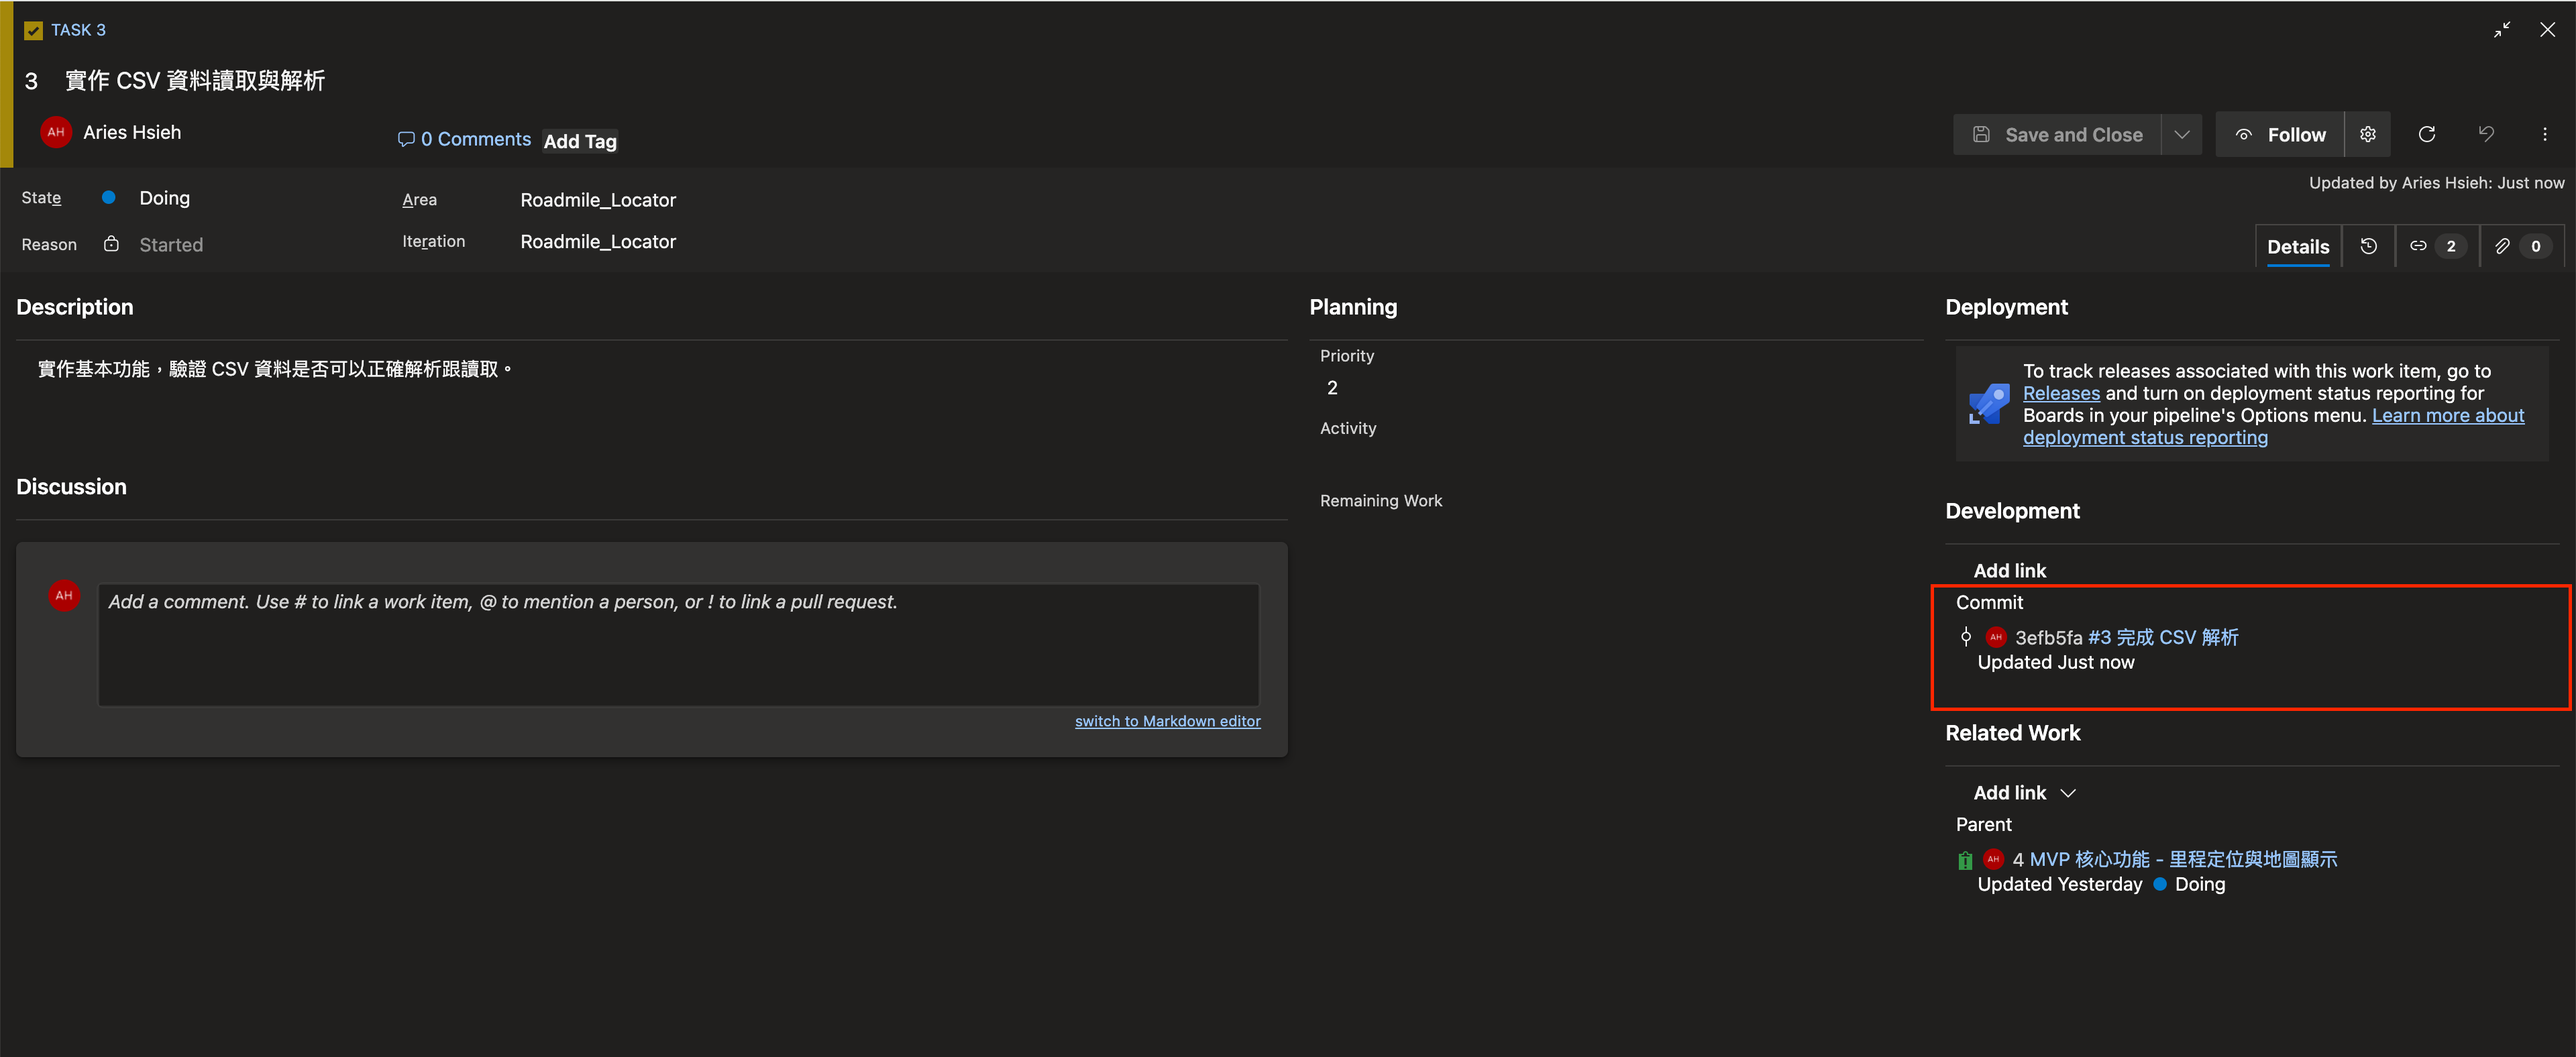
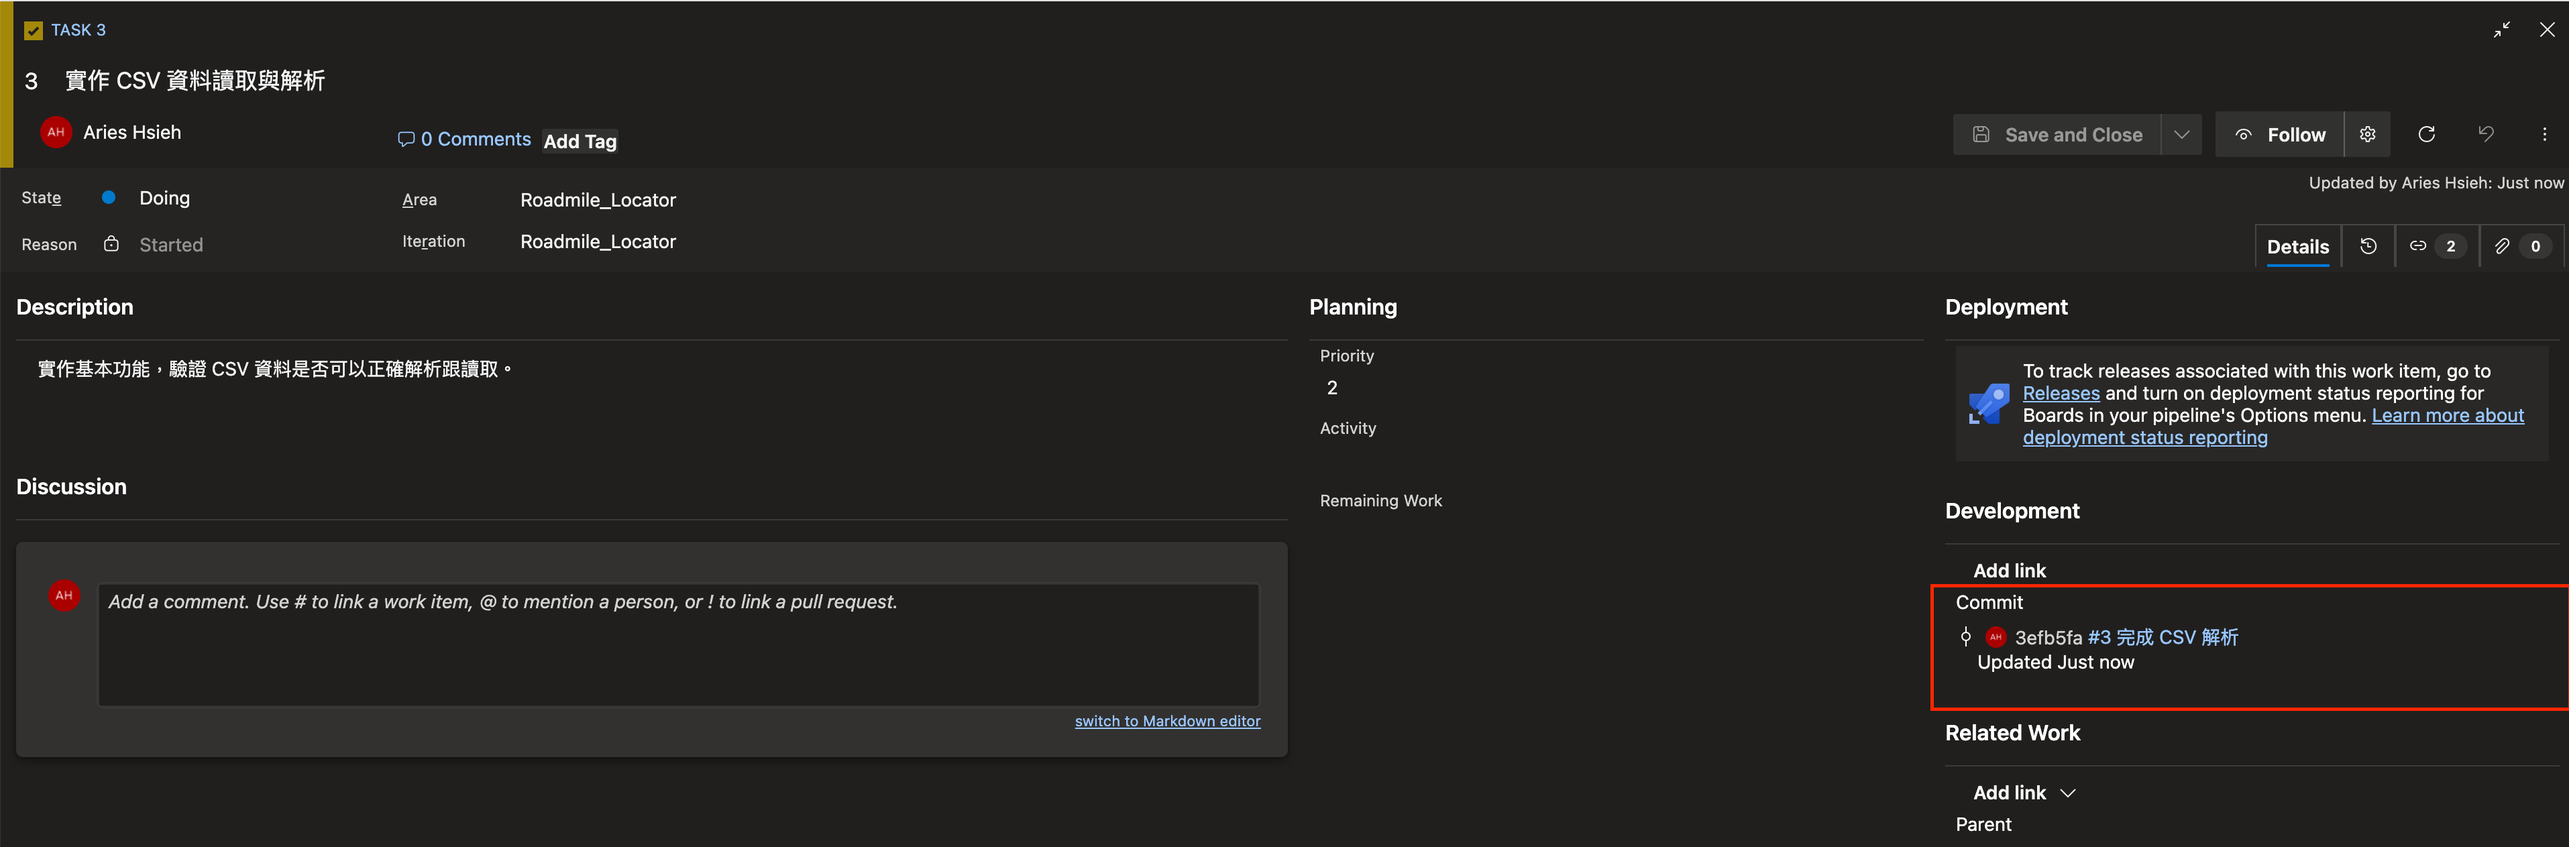
Modify

diff --git a/AriesHsieh/content/posts/2025-08-22-iron-day17/index.md b/AriesHsieh/content/posts/2025-08-22-iron-day17/index.md
@@ -1,5 +1,5 @@
 ---
-title: "[Day 17] 里程定位與地圖顯示（三）"
+title: "[Day 17] 里程定位與地圖顯示（三）- 實作搜尋邏輯"
 date: 2025-08-22T09:06:35+08:00
 draft: true
 categories: ["iOS"]
@@ -223,7 +223,7 @@ Map(position: $cameraPosition) {
 
 # 本日小結
 
-今天，我們成功地完成了 MVP 關鍵的核心功能：
+今天，我們成功地完成了關鍵的核心功能：
 
 我們利用 filter 高階函式，從資料庫中精準地篩選出使用者指定道路的所有里程點，為後續的搜尋做好準備；面對國道與省道不同的里程格式，我們沒有選擇重複撰寫兩套邏輯，而是透過 Swift 泛型 (Generics)、閉包 (Closure) 與 KeyPath，設計了一個可重用的 findClosestMarker 函式，將如何解析里程、如何取得座標等與特定資料結構相關的任務，交由呼叫端以參數的形式傳入。
 
@@ -231,4 +231,4 @@ Map(position: $cameraPosition) {
 
 最後，我們也完成了一次完整的開發循環，將實現功能的 feature 分支透過 Pull Request (PR) 合併回 develop 主幹，並關聯了對應的 Work Item。這不僅是程式碼的合併，也代表著一個需求的完整交付。
 
-完成這項核心功能後，我們的 App 已經從一個靜態的資料瀏覽器，蛻變成一個真正能解決問題的實用工具。下一步，我們將繼續完善周邊功能與使用者體驗，讓這個 MVP 更加完整。
+完成這項核心功能後，我們的 App 已經從一個靜態的資料瀏覽器，蛻變成一個真正能解決問題的實用工具。下一步，我們將繼續完善周邊功能與使用者體驗。

diff --git a/AriesHsieh/content/posts/2025-08-22-iron-day15/index.md b/AriesHsieh/content/posts/2025-08-22-iron-day15/index.md
@@ -1,5 +1,5 @@
 ---
-title: "[Day 15] 里程定位與地圖顯示（一）"
+title: "[Day 15] 里程定位與地圖顯示（一）- 資料讀取"
 date: 2025-08-20T07:26:27+08:00
 draft: true
 categories: ["iOS"]
@@ -15,12 +15,12 @@ comments: true
 
 昨天我們在 Azure Board 上把目前所需的 work items 開立完畢，今天就正式要進入我們這次 App 的實作範圍了！
 
-第一個要進行的 issue 是「MVP 核心功能 - 里程定位與地圖顯示」，因為這次我想要實作的功能，應該說仰賴政府公開的這份資料能否正確讀取跟運用...不然就沒戲唱了XD
+第一個要進行的 issue 是「里程定位與地圖顯示」，因為這次我想要實作的功能，應該說仰賴政府公開的這份資料能否正確讀取跟運用...不然就沒戲唱了XD
 >記得把要開始做的 work item 的 state 從 To Do 改為 Doing。
 
 先用 VS code 來看一下這兩份 CSV(省道與國道)長什麼樣子：
 
-
+![csv](csv.png)
 
 我們現在的目標是，讀取 CSV 檔案，然後將其轉成我們定義好的物件類型。
 
@@ -31,9 +31,9 @@ comments: true
 - 再從 develop 分出 feature/parse-csv 分支
 - 於 feature/parse-csv 分支進行開發
 
-![alt text](image-1.png)
-
 # 資料結構
+
+![alt text](image-1.png)
 
 依據 CSV 欄位，定義我們需要的結構：
 

diff --git a/AriesHsieh/content/posts/2025-08-22-iron-day19/index.md b/AriesHsieh/content/posts/2025-08-22-iron-day19/index.md
@@ -1,5 +1,5 @@
 ---
-title: "[Day 19] 里程定位與地圖顯示（五）"
+title: "[Day 19] 里程定位與地圖顯示（五）- 自訂元件樣式"
 date: 2025-08-22T10:55:20+08:00
 draft: true
 categories: []
@@ -11,11 +11,7 @@ searchHidden: false
 comments: true
 ---
 
-# 開立 Issue, Task
-
-現在有新的任務了，我們要依據前兩天的規劃來開發 App，這是新的任務，先在 Azure Board 上把 work items 開好。
-
-![alt text](image.png)
+今天繼續刻 UI！
 
 # 在 SwiftUi 中自訂元件樣式
 

diff --git a/AriesHsieh/content/posts/2025-08-22-iron-day20/index.md b/AriesHsieh/content/posts/2025-08-22-iron-day20/index.md
@@ -1,5 +1,5 @@
 ---
-title: "2025 08 22 Iron Day20"
+title: "[Day 20] 里程定位與地圖顯示（六）- TapGesture"
 date: 2025-08-22T10:55:24+08:00
 draft: true
 categories: []
@@ -12,3 +12,5 @@ comments: true
 ---
 
 # 2025 08 22 Iron Day20
+
+講一下地圖 tap 的衝突

diff --git a/AriesHsieh/content/posts/2025-08-22-iron-day16/index.md b/AriesHsieh/content/posts/2025-08-22-iron-day16/index.md
@@ -1,5 +1,5 @@
 ---
-title: "[Day 16] 里程定位與地圖顯示（二）"
+title: "[Day 16] 里程定位與地圖顯示（二）- Enum 與 Picker 搭配"
 date: 2025-08-21T13:55:31+08:00
 draft: true
 categories: ["iOS"]

diff --git a/AriesHsieh/content/posts/2025-08-22-iron-day21/index.md b/AriesHsieh/content/posts/2025-08-22-iron-day21/index.md
@@ -1,5 +1,5 @@
 ---
-title: "2025 08 22 Iron Day21"
+title: "[Day 21] 地理圍欄通知功能 - 使用 Sheet 顯示資訊"
 date: 2025-08-22T10:55:29+08:00
 draft: true
 categories: []

diff --git a/AriesHsieh/content/posts/2025-08-22-iron-day22/index.md b/AriesHsieh/content/posts/2025-08-22-iron-day22/index.md
@@ -1,5 +1,5 @@
 ---
-title: "2025 08 22 Iron Day22"
+title: "[Day 22] 導向地圖 App - URL Scheme"
 date: 2025-08-22T10:55:33+08:00
 draft: true
 categories: []

diff --git a/AriesHsieh/content/posts/2025-08-22-iron-day23/index.md b/AriesHsieh/content/posts/2025-08-22-iron-day23/index.md
@@ -1,5 +1,5 @@
 ---
-title: "2025 08 22 Iron Day23"
+title: "[Day 23]"
 date: 2025-08-22T10:55:36+08:00
 draft: true
 categories: []
